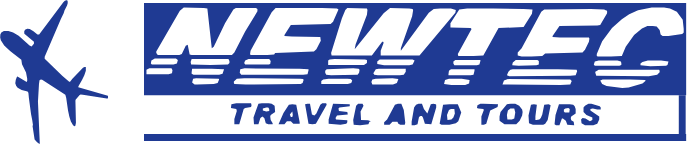
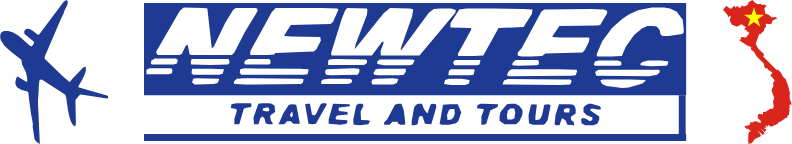
feat: the email signs off with the same flag the header carries
The signature lockup stopped at the wordmark while the site header closed
with the country. The Vietnam outline moves into brand-artwork.ts so the
rasteriser can reach it — it runs outside Next and can only import plain
data — and the layout numbers move with it, so the PNG's canvas and the
<img> the email sizes by can no longer drift apart.

diff --git a/src/shared/brand-artwork.ts b/src/shared/brand-artwork.ts
@@ -34,3 +34,53 @@ export const SUBLINE = {
   height: 281,
   path: "M594 206L595 207L595 213L585 247L572 246L568 233L566 230L563 230L560 232L557 247L551 249L545 249L545 242L550 213L554 207L559 205L566 205L570 216L577 225L584 206L589 205ZM877 210L879 216L879 225L870 231L869 234L870 239L875 242L876 249L862 248L859 240L853 235L851 235L846 249L839 249L836 247L838 228L845 206L867 206L874 207ZM266 209L267 222L258 228L257 231L258 238L262 245L262 247L253 247L248 245L245 234L241 231L237 234L233 247L224 247L223 233L233 205L240 204L254 204L260 205ZM639 206L646 223L640 241L635 245L622 248L606 248L602 246L609 207L622 206ZM770 217L771 222L770 229L765 240L758 247L734 247L724 240L724 231L726 222L739 206L747 205L756 205L764 209ZM828 208L822 238L817 246L813 248L800 248L792 248L784 245L783 229L788 207L794 206L800 207L797 231L797 238L799 238L805 237L808 234L811 227L815 207L824 206ZM419 206L419 210L398 213L396 215L397 220L414 222L415 227L393 229L390 234L391 237L414 239L414 243L412 246L400 248L376 246L376 237L385 205ZM524 205L529 218L532 244L531 248L522 248L518 246L516 242L512 242L506 242L500 248L489 248L489 243L495 237L511 207L517 205ZM310 207L317 243L317 246L304 246L299 241L294 241L291 241L286 247L274 247L284 224L295 207L302 206ZM928 210L930 213L930 217L923 217L914 215L909 216L909 219L927 231L927 237L923 246L915 249L904 249L898 249L891 245L890 237L893 234L899 235L908 241L913 238L913 233L901 228L895 222L895 213L898 209L905 205L911 205ZM371 204L372 207L350 246L343 247L335 246L328 206L333 205L338 205L342 227L347 229L351 225L359 207L363 204ZM218 204L219 208L218 212L206 214L203 216L194 247L184 247L184 236L189 220L188 216L177 214L178 206L188 204ZM721 206L720 212L705 219L697 246L692 248L687 248L687 231L692 218L691 216L681 215L678 214L679 208L685 205L691 205ZM445 205L447 209L441 221L442 238L456 239L462 241L459 242L457 247L440 249L427 248L426 238L432 209L436 205ZM754 215L756 223L754 235L749 237L740 237L739 228L741 219L746 215ZM632 216L633 225L630 233L626 237L618 238L617 228L621 218L625 216ZM255 216L255 220L249 221L242 219L242 215L249 213L253 213ZM867 216L866 223L857 223L855 221L855 217L858 215L864 214ZM302 221L303 228L302 232L299 232L297 227ZM1089 188L1103 188L1103 267L1089 267ZM0 267L1104 267L1104 281L0 281Z"
 };
+
+/*
+ * The country the agency sells, drawn as its own flag. This one is not off the
+ * business card: the outline is Natural Earth's 50m country polygon (public
+ * domain), reprojected to Web Mercator so it reads as the Vietnam people know
+ * from maps, then simplified until the next point removed would start to show
+ * at header size. Mainland only — Phu Quoc and the bay islands come out under
+ * a pixel at 48px tall and would only render as dirt. Do not hand-edit it.
+ */
+export const VIETNAM = {
+  width: 475,
+  height: 1000,
+  path: "M379.5 129.0L368.8 129.8L342.9 144.6L339.3 160.6L327.0 168.0L295.8 164.4L300.3 182.8L287.2 197.3L285.0 213.8L262.2 234.3L250.4 237.9L226.8 304.9L244.2 336.7L283.8 374.7L282.5 390.2L275.5 388.3L370.5 485.0L383.1 484.5L398.6 500.8L418.8 534.9L434.6 548.8L451.7 593.3L465.9 650.9L464.9 657.0L462.2 651.0L463.8 689.4L473.7 711.0L475.0 734.7L467.9 724.6L460.4 731.6L465.9 748.5L459.6 746.9L463.0 777.5L459.1 774.6L459.1 792.8L454.8 801.0L448.7 801.5L445.3 818.5L434.5 819.9L398.9 845.1L387.4 847.6L381.3 859.3L333.3 880.5L322.0 873.9L316.8 863.2L312.9 880.4L298.6 871.5L290.7 876.1L299.5 877.5L300.6 887.3L281.5 887.1L302.4 899.1L290.1 916.0L260.3 892.2L284.3 918.6L288.6 930.4L275.9 936.0L240.4 906.8L261.7 933.5L262.3 946.5L219.0 966.5L207.4 985.7L193.9 997.0L171.6 999.1L179.8 989.3L174.7 985.6L176.4 932.7L180.2 918.9L192.6 910.4L173.6 893.4L164.6 895.6L149.2 879.7L158.2 872.8L176.8 871.5L189.5 860.5L189.5 846.6L206.9 851.0L212.8 844.0L235.5 841.4L241.9 849.8L262.0 854.3L261.9 838.3L242.1 821.3L241.8 798.7L251.8 790.6L277.3 795.3L278.3 777.9L296.9 775.9L330.1 754.3L341.9 757.2L349.2 750.3L352.4 738.7L347.2 706.0L355.6 678.8L337.8 632.8L340.0 616.6L351.1 597.7L347.5 575.6L358.7 557.0L327.1 520.2L341.8 510.1L342.1 503.9L311.8 483.0L306.7 472.0L299.4 476.2L294.0 473.5L286.9 462.8L284.0 442.2L231.4 388.9L216.2 360.5L193.9 343.4L196.0 326.5L168.1 316.1L114.5 281.6L125.6 269.4L123.6 256.2L159.7 260.0L181.8 232.5L176.6 219.7L166.9 219.5L161.7 207.8L145.4 203.2L159.4 189.0L128.1 168.2L97.9 185.5L63.4 172.0L47.0 145.9L53.4 116.9L44.7 108.1L39.7 117.2L34.7 117.3L29.5 101.3L0.0 68.1L22.3 41.9L55.5 63.2L77.9 40.6L88.6 53.4L96.9 39.7L117.8 56.8L130.9 38.5L145.7 45.2L166.2 36.9L173.2 30.6L177.7 14.8L204.4 0.0L222.1 19.3L241.2 29.8L261.0 26.5L269.5 34.4L286.6 30.8L302.1 40.0L287.1 59.5L294.5 96.1L314.4 100.0L339.1 122.0L365.6 118.8Z",
+  /* The flag's star, sitting where the north has the most room for it, which is
+     where a flag-filled map is normally drawn. */
+  star: "M215.1 52.6L231.4 102.8L284.3 102.8L241.5 133.9L257.9 184.2L215.1 153.1L172.4 184.2L188.7 133.9L145.9 102.8L198.8 102.8Z"
+};
+
+/*
+ * Literal colours, not palette tokens: these two belong to the flag, so the
+ * site does not get to restyle them the way it restyles its own navy.
+ */
+export const FLAG_RED = "#da251d";
+export const FLAG_YELLOW = "#ffff00";
+
+/*
+ * How the lockup is laid out when it is a flat image rather than three SVGs:
+ * the signature on the welcome email. The rasteriser draws to these numbers and
+ * the email sizes its <img> by them, so the two cannot drift into an image the
+ * mail client scales. Widths follow from the artwork's own proportions, which is
+ * why they are computed here rather than written down twice.
+ */
+const MARK_HEIGHT = 48;
+const WORDMARK_HEIGHT = 46;
+const GAP = 12;
+
+const planeWidth = (PLANE.width / PLANE.height) * MARK_HEIGHT;
+const wordmarkWidth = (PANEL.width / SUBLINE.height) * WORDMARK_HEIGHT;
+const vietnamWidth = (VIETNAM.width / VIETNAM.height) * MARK_HEIGHT;
+
+export const EMAIL_LOCKUP = {
+  markHeight: MARK_HEIGHT,
+  wordmarkHeight: WORDMARK_HEIGHT,
+  gap: GAP,
+  planeWidth,
+  wordmarkWidth,
+  vietnamWidth,
+  width: Math.ceil(planeWidth + GAP + wordmarkWidth + GAP + vietnamWidth),
+  height: MARK_HEIGHT
+};

diff --git a/src/components/shared/brand-lockup.tsx b/src/components/shared/brand-lockup.tsx
@@ -1,30 +1,6 @@
-import { PANEL, PLANE, SUBLINE } from "@/shared/brand-artwork";
+import { FLAG_RED, FLAG_YELLOW, PANEL, PLANE, SUBLINE, VIETNAM } from "@/shared/brand-artwork";
 import { COMPANY } from "@/shared/company";
 import { cn } from "@/shared/utils";
-
-/*
- * The country the agency sells, drawn as its own flag. This one is not off the
- * business card: the outline is Natural Earth's 50m country polygon (public
- * domain), reprojected to Web Mercator so it reads as the Vietnam people know
- * from maps, then simplified until the next point removed would start to show
- * at header size. Mainland only — Phu Quoc and the bay islands come out under
- * a pixel at 48px tall and would only render as dirt. Do not hand-edit it.
- */
-const VIETNAM = {
-  width: 475,
-  height: 1000,
-  path: "M379.5 129.0L368.8 129.8L342.9 144.6L339.3 160.6L327.0 168.0L295.8 164.4L300.3 182.8L287.2 197.3L285.0 213.8L262.2 234.3L250.4 237.9L226.8 304.9L244.2 336.7L283.8 374.7L282.5 390.2L275.5 388.3L370.5 485.0L383.1 484.5L398.6 500.8L418.8 534.9L434.6 548.8L451.7 593.3L465.9 650.9L464.9 657.0L462.2 651.0L463.8 689.4L473.7 711.0L475.0 734.7L467.9 724.6L460.4 731.6L465.9 748.5L459.6 746.9L463.0 777.5L459.1 774.6L459.1 792.8L454.8 801.0L448.7 801.5L445.3 818.5L434.5 819.9L398.9 845.1L387.4 847.6L381.3 859.3L333.3 880.5L322.0 873.9L316.8 863.2L312.9 880.4L298.6 871.5L290.7 876.1L299.5 877.5L300.6 887.3L281.5 887.1L302.4 899.1L290.1 916.0L260.3 892.2L284.3 918.6L288.6 930.4L275.9 936.0L240.4 906.8L261.7 933.5L262.3 946.5L219.0 966.5L207.4 985.7L193.9 997.0L171.6 999.1L179.8 989.3L174.7 985.6L176.4 932.7L180.2 918.9L192.6 910.4L173.6 893.4L164.6 895.6L149.2 879.7L158.2 872.8L176.8 871.5L189.5 860.5L189.5 846.6L206.9 851.0L212.8 844.0L235.5 841.4L241.9 849.8L262.0 854.3L261.9 838.3L242.1 821.3L241.8 798.7L251.8 790.6L277.3 795.3L278.3 777.9L296.9 775.9L330.1 754.3L341.9 757.2L349.2 750.3L352.4 738.7L347.2 706.0L355.6 678.8L337.8 632.8L340.0 616.6L351.1 597.7L347.5 575.6L358.7 557.0L327.1 520.2L341.8 510.1L342.1 503.9L311.8 483.0L306.7 472.0L299.4 476.2L294.0 473.5L286.9 462.8L284.0 442.2L231.4 388.9L216.2 360.5L193.9 343.4L196.0 326.5L168.1 316.1L114.5 281.6L125.6 269.4L123.6 256.2L159.7 260.0L181.8 232.5L176.6 219.7L166.9 219.5L161.7 207.8L145.4 203.2L159.4 189.0L128.1 168.2L97.9 185.5L63.4 172.0L47.0 145.9L53.4 116.9L44.7 108.1L39.7 117.2L34.7 117.3L29.5 101.3L0.0 68.1L22.3 41.9L55.5 63.2L77.9 40.6L88.6 53.4L96.9 39.7L117.8 56.8L130.9 38.5L145.7 45.2L166.2 36.9L173.2 30.6L177.7 14.8L204.4 0.0L222.1 19.3L241.2 29.8L261.0 26.5L269.5 34.4L286.6 30.8L302.1 40.0L287.1 59.5L294.5 96.1L314.4 100.0L339.1 122.0L365.6 118.8Z",
-  /* The flag's star, sitting where the north has the most room for it, which is
-     where a flag-filled map is normally drawn. */
-  star: "M215.1 52.6L231.4 102.8L284.3 102.8L241.5 133.9L257.9 184.2L215.1 153.1L172.4 184.2L188.7 133.9L145.9 102.8L198.8 102.8Z"
-};
-
-/*
- * Literal colours, not palette tokens: these two belong to the flag, so the
- * site does not get to restyle them the way it restyles its own navy.
- */
-const FLAG_RED = "#da251d";
-const FLAG_YELLOW = "#ffff00";
 
 function PlaneMark({ className }: { className?: string }) {
   return (

diff --git a/scripts/render-brand-lockup.ts b/scripts/render-brand-lockup.ts
@@ -15,42 +15,52 @@
 import { mkdir, writeFile } from "node:fs/promises";
 import path from "node:path";
 import { chromium } from "@playwright/test";
-import { PANEL, PLANE, SUBLINE } from "../src/shared/brand-artwork";
+import {
+  EMAIL_LOCKUP,
+  FLAG_RED,
+  FLAG_YELLOW,
+  PANEL,
+  PLANE,
+  SUBLINE,
+  VIETNAM
+} from "../src/shared/brand-artwork";
 
 /** The navy the site draws the lockup in, and the white it sits on in mail. */
 const INK = "#1f3a93";
 const STOCK = "#ffffff";
 
 /*
- * Displayed at 229px wide in the signature. Rendered at three times that so it
- * stays sharp on a retina screen and on the 2x images Gmail serves; the speed
- * rules under the wordmark are the first thing to turn to mush when it is not.
+ * Rendered at three times its displayed size so it stays sharp on a retina
+ * screen and on the 2x images Gmail serves; the speed rules under the wordmark
+ * are the first thing to turn to mush when it is not. Every dimension comes
+ * from EMAIL_LOCKUP, which the email also sizes its <img> by, so the picture
+ * and the box it is drawn into cannot drift apart.
  */
 const SCALE = 3;
-const PLANE_HEIGHT = 48;
-const WORDMARK_HEIGHT = 46;
-const GAP = 12;
-
-const planeWidth = (PLANE.width / PLANE.height) * PLANE_HEIGHT;
-const wordmarkWidth = (PANEL.width / SUBLINE.height) * WORDMARK_HEIGHT;
 
 const page = `<!doctype html>
 <html><head><meta charset="utf-8"><style>
   html, body { margin: 0; padding: 0; background: ${STOCK}; }
   #lockup {
-    display: flex; align-items: center; gap: ${GAP}px;
-    width: ${Math.ceil(planeWidth + GAP + wordmarkWidth)}px;
-    height: ${PLANE_HEIGHT}px; background: ${STOCK};
+    display: flex; align-items: center; gap: ${EMAIL_LOCKUP.gap}px;
+    width: ${EMAIL_LOCKUP.width}px;
+    height: ${EMAIL_LOCKUP.height}px; background: ${STOCK};
   }
 </style></head>
 <body><div id="lockup">
-  <svg width="${planeWidth}" height="${PLANE_HEIGHT}" viewBox="0 0 ${PLANE.width} ${PLANE.height}">
+  <svg width="${EMAIL_LOCKUP.planeWidth}" height="${EMAIL_LOCKUP.markHeight}" viewBox="0 0 ${PLANE.width} ${PLANE.height}">
     <path d="${PLANE.path}" fill="${INK}" fill-rule="evenodd" />
   </svg>
-  <svg width="${wordmarkWidth}" height="${WORDMARK_HEIGHT}" viewBox="0 0 ${PANEL.width} ${SUBLINE.height}">
+  <svg width="${EMAIL_LOCKUP.wordmarkWidth}" height="${EMAIL_LOCKUP.wordmarkHeight}" viewBox="0 0 ${PANEL.width} ${SUBLINE.height}">
     <rect width="${PANEL.width}" height="${SUBLINE.height}" fill="${STOCK}" />
     <path d="${PANEL.path}" fill="${INK}" fill-rule="evenodd" />
     <path d="${SUBLINE.path}" fill="${INK}" fill-rule="evenodd" />
+  </svg>
+  <!-- The country closes the lockup in the signature exactly as it does in the
+       site header, and in the flag's own colours rather than the agency navy. -->
+  <svg width="${EMAIL_LOCKUP.vietnamWidth}" height="${EMAIL_LOCKUP.markHeight}" viewBox="0 0 ${VIETNAM.width} ${VIETNAM.height}">
+    <path d="${VIETNAM.path}" fill="${FLAG_RED}" fill-rule="evenodd" />
+    <path d="${VIETNAM.star}" fill="${FLAG_YELLOW}" />
   </svg>
 </div></body></html>`;
 

diff --git a/src/modules/inquiries/notification.ts b/src/modules/inquiries/notification.ts
@@ -1,6 +1,7 @@
 import { readFileSync } from "node:fs";
 import path from "node:path";
 import type { EmailAttachment, EmailMessage } from "@/server/integrations/email-sender";
+import { EMAIL_LOCKUP } from "@/shared/brand-artwork";
 import { COMPANY } from "@/shared/company";
 import type { InquiryPassengerRecord, InquiryWithPassengers } from "./queries";
 
@@ -305,7 +306,7 @@ function renderHtml(inquiry: InquiryRecord, locale: Locale, hasLockup: boolean):
     .join("");
 
   const signatureMark = hasLockup
-    ? `<tr><td style="padding-top:16px;"><img alt="${escapeHtml(COMPANY.name)}" src="cid:${LOCKUP_CID}" width="229" height="48" style="display:block;border:0;width:229px;height:48px;" /></td></tr>`
+    ? `<tr><td style="padding-top:16px;"><img alt="${escapeHtml(COMPANY.name)}" src="cid:${LOCKUP_CID}" width="${EMAIL_LOCKUP.width}" height="${EMAIL_LOCKUP.height}" style="display:block;border:0;width:${EMAIL_LOCKUP.width}px;height:${EMAIL_LOCKUP.height}px;" /></td></tr>`
     : "";
 
   return `<!doctype html>
